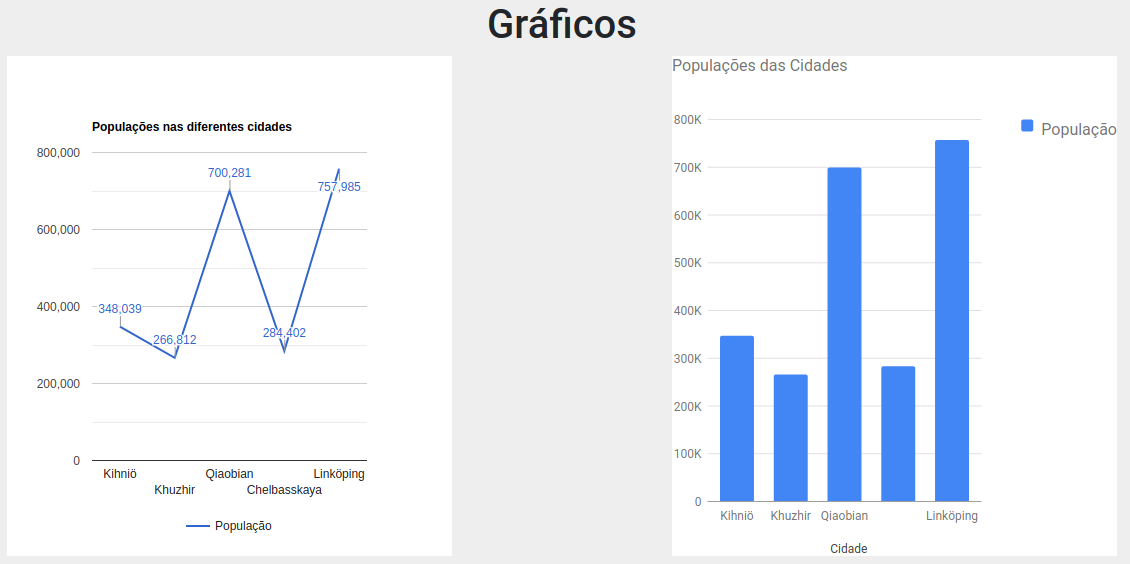
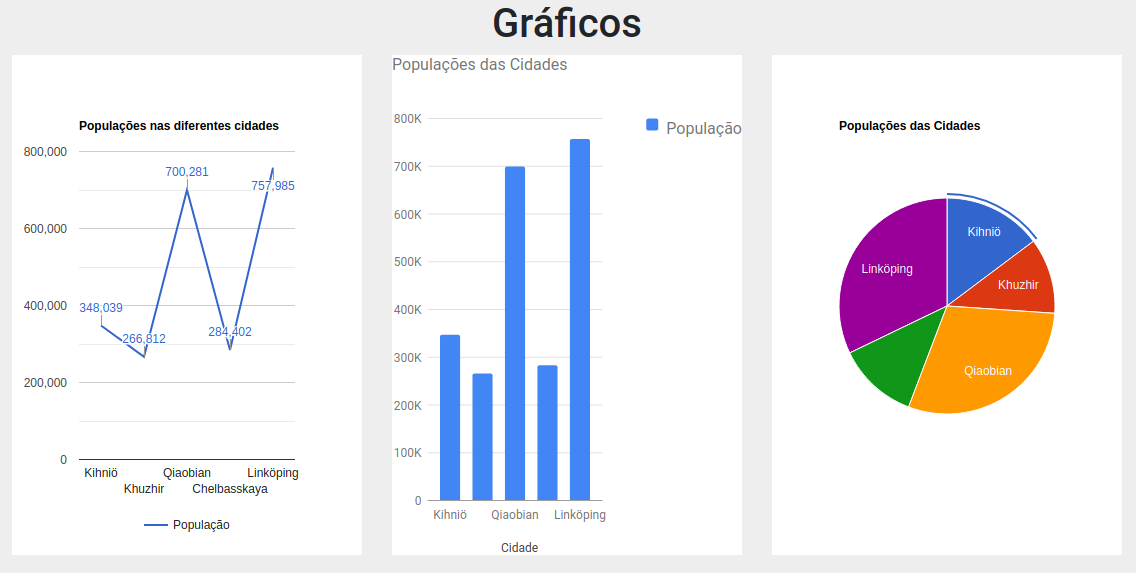
Third graphic added to the main page

diff --git a/graficos/terceiro_grafico.php b/graficos/terceiro_grafico.php
@@ -1,43 +1,37 @@
-<html>
-  <head>
-    <script type="text/javascript" src="https://www.gstatic.com/charts/loader.js"></script>
-    <script type="text/javascript">
-      google.charts.load("current", {packages:["corechart"]});
-      google.charts.setOnLoadCallback(drawChart);
-      function drawChart() {
-        var data = google.visualization.arrayToDataTable([
-          ['Cidade', 'População'],
-          <?php
-            
-            require('tiago_conecta.php');
+<script type="text/javascript">
+  google.charts.load("current", {packages:["corechart"]});
+  google.charts.setOnLoadCallback(drawChart);
+  function drawChart() {
+    var data = google.visualization.arrayToDataTable([
+      ['Cidade', 'População'],
+      <?php
+        
+        require('tiago_conecta.php');
 
-            $sql = "SELECT * FROM cidades";
-            $result = $conn->query($sql);
+        $sql = "SELECT * FROM cidades";
+        $result = $conn->query($sql);
 
-            if ($result->num_rows > 0) {
-              while($row = $result->fetch_assoc()) {
-                $cidade = utf8_encode($row['cidade']);
-                $populacao = utf8_encode($row['populacao']); 
-                ?>
-                ["<?= $cidade ?>",  <?= $populacao ?>],
-                <?php
-              }
-            } 
-          ?> 
-        ]);
+        if ($result->num_rows > 0) {
+          while($row = $result->fetch_assoc()) {
+            $cidade = utf8_encode($row['cidade']);
+            $populacao = utf8_encode($row['populacao']); 
+            ?>
+            ["<?= $cidade ?>",  <?= $populacao ?>],
+            <?php
+          }
+        } 
+      ?> 
+    ]);
 
-        var options = {
-          title: 'Populaçãoes das Cidades',
-          legend: 'none',
-          pieSliceText: 'label',
-        };
+    var options = {
+      title: 'Populações das Cidades',
+      legend: 'none',
+      pieSliceText: 'label',
+    };
 
-        var chart = new google.visualization.PieChart(document.getElementById('piechart'));
-        chart.draw(data, options);
-      }
-    </script>
-  </head>
-  <body>
-    <div id="piechart" style="width: 900px; height: 500px;"></div>
-  </body>
-</html>
+    var chart = new google.visualization.PieChart(document.getElementById('piechart'));
+    chart.draw(data, options);
+  }
+</script>
+
+<div id="piechart" class="grafico"></div>

diff --git a/graficos/graficos.php b/graficos/graficos.php
@@ -48,20 +48,24 @@
 	<div class="row">	
 
 
-		<div class="col-sm-12 col-md-5">
+		<div class="col-sm-12 col-md-4">
 			<?php include 'primeiro_grafico.php' ?>
 		</div>
 
 
 
-		<div class="col-sm-0 col-md-2"></div>
 
-
-
-		<div class="col-sm-12 col-md-5">
+		<div class="col-sm-12 col-md-4">
 			<?php include 'segundo_grafico.php' ?>
 		</div>	
 
+
+		<hr>
+
+
+		<div class="col-sm-12 col-md-4">
+			<?php include 'terceiro_grafico.php' ?>
+		</div>
 
 	</div>
 
